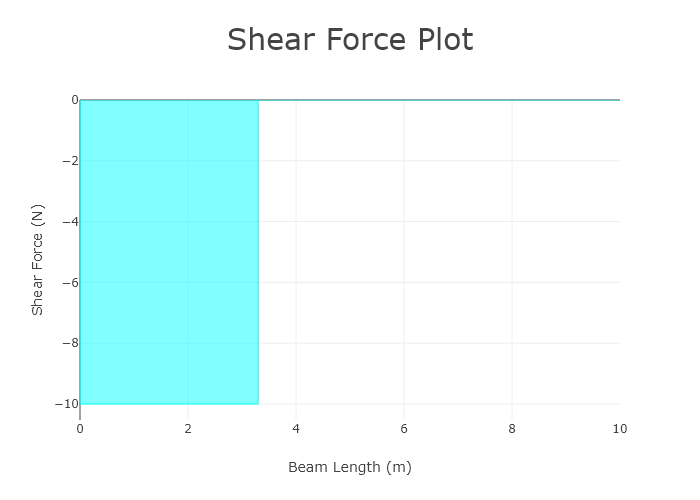
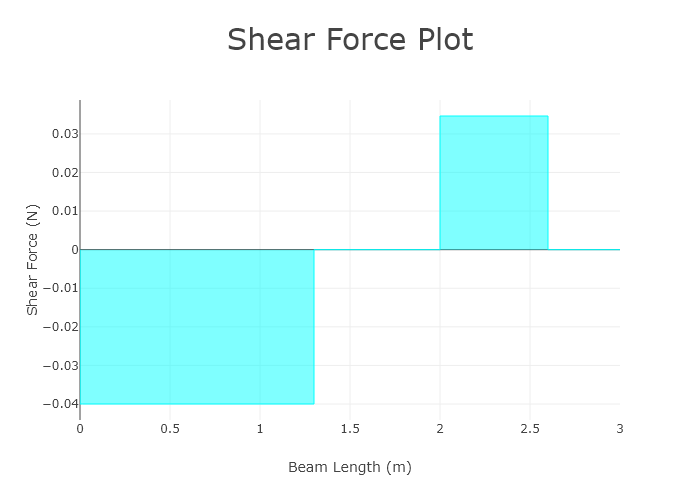
update angle

diff --git a/pages/0_Beam_Calculator.py b/pages/0_Beam_Calculator.py
@@ -60,21 +60,21 @@ with tab2:
             type_load = st.selectbox('Type forces', ('Point load', 'Distributed load', 'Moment')) 
             if type_load == 'Point load':
                 magnitude = st.number_input('Magnitude (kN)', step=0.01)
-                position = st.slider('Position (m)', min_value=0.00, max_value=length, step=0.01)
-                angle = st.number_input('Angle (degree)', min_value=0.00, max_value=360.00, step=0.01)
+                position = st.slider('Position (m)', min_value=0.00, max_value=length, step=0.1)
+                angle = st.number_input('Angle (degree)', max_value=360.00, value=90.00 ,step=0.01)
                 if st.button('Add'):
                     st.session_state.console_forces.append({'Type Load': type_load, 'Magnitude': magnitude, 'Position': position, 'Angle': angle})
             elif type_load == 'Moment':
                 magnitude = st.number_input('Magnitude (kN)', step=0.01)
-                position = st.slider('Position (m)', min_value=0.00, max_value=length, step=0.01)
+                position = st.slider('Position (m)', min_value=0.00, max_value=length, step=0.1)
                 if st.button('Add'):
                     st.session_state.console_forces.append({'Type Load': type_load, 'Magnitude': magnitude, 'Position': position})
             
             elif type_load == 'Distributed load':
                 # Vừa tạo hộp nhập số liệu, vừa tạo slider
                 magnitude = st.number_input('Magnitude (kN)', step=0.01)
-                start_point = st.slider('Start position (m)', min_value=0.00, max_value=length, step=0.01)
-                end_point = st.slider('End position (m)', min_value=0.00, max_value=length, step=0.01)
+                start_point = st.slider('Start position (m)', min_value=0.00, max_value=length, step=0.1)
+                end_point = st.slider('End position (m)', min_value=0.00, max_value=length, step=0.1)
                 if st.button('Add'):
                     st.session_state.console_forces.append({'Type Load': type_load, 'Magnitude': magnitude, 'Start Position': start_point, 'End Position': end_point})
 
@@ -106,6 +106,7 @@ with tab2:
                     # Trích xuất thông tin từ mỗi phần tử
                     type_load = force.get("Type Load")
                     magnitude = force.get("Magnitude")
+                    angle = force.get("Angle")
                     position = force.get("Position", None)
                     start_position = force.get("Start Position", None)
                     end_position = force.get("End Position", None)
@@ -115,8 +116,10 @@ with tab2:
                         beam.add_loads(DistributedLoadV(round(magnitude,2), (float(start_position), float(end_position))))
                     elif type_load == "Moment":
                         beam.add_loads(PointTorque(round(magnitude,2), position))
-                    elif type_load == "Point load":
+                    elif type_load == "Point load" and angle == 90:
                         beam.add_loads(PointLoadV(round(magnitude,2), position))
+                    elif type_load == "Point load" and angle != 90:
+                        beam.add_loads(PointLoad(round(magnitude,2), position, angle=angle))
 
                 beam.analyse()
                 #Vẽ biểu đồ dựa trên thông tin đã input
@@ -145,6 +148,7 @@ with tab2:
                 # Trích xuất thông tin từ mỗi phần tử
                 type_load = force.get("Type Load")
                 magnitude = force.get("Magnitude")
+                angle = force.get("Angle")
                 position = force.get("Position", None)
                 start_position = force.get("Start Position", None)
                 end_position = force.get("End Position", None)
@@ -154,8 +158,10 @@ with tab2:
                     beam.add_loads(DistributedLoadV(round(magnitude,2), (float(start_position), float(end_position))))
                 elif type_load == "Moment":
                     beam.add_loads(PointTorque(round(magnitude,2), position))
-                elif type_load == "Point load":
+                elif type_load == "Point load" and angle==90:
                     beam.add_loads(PointLoadV(round(magnitude,2), position))
+                elif type_load == "Point load" and angle != 90:
+                    beam.add_loads(PointLoad(round(magnitude,2), position, angle=angle))
                     
             beam.analyse()
             #Giải và plot đồ thị
@@ -201,21 +207,21 @@ with tab2:
             st.markdown('---')
             if type_load_1 == 'Point load':
                 magnitude_1 = st.number_input('Magnitude (kN)', step=0.01)
-                position_1 = st.slider('Position (m)', min_value=0.00, max_value=length_1, step=0.01)
-                angle_1 =st.number_input('Angle (degree)', min_value=0.00, max_value=360.00, step=0.01)
+                position_1 = st.slider('Position (m)', min_value=0.00, max_value=length_1, step=0.1)
+                angle_1 =st.number_input('Angle (degree)', max_value=360.00, value=90.00 , step=0.01)
                 if st.button('Add'):
                     st.session_state.beam_forces.append({'Type Load': type_load_1, 'Magnitude': magnitude_1, 'Position': position_1, 'Angle': angle_1})
             
             elif type_load_1 == 'Momnet':
                 magnitude_1 = st.number_input('Magnitude (kN)', step=0.01)
-                position_1 = st.slider('Position (m)', min_value=0.00, max_value=length_1, step=0.01)
+                position_1 = st.slider('Position (m)', min_value=0.00, max_value=length_1, step=0.1)
                 if st.button('Add'):
                     st.session_state.beam_forces.append({'Type Load': type_load_1, 'Magnitude': magnitude_1, 'Position': position_1})
             
             elif type_load_1 == 'Distributed load':
                 magnitude_1 = st.number_input('Magnitude (kN)', step=0.01)
-                start_point_1 = st.slider('Start position (m)', min_value=0.00, max_value=None, step=0.01)
-                end_point_1 = st.slider('End position (m)', min_value=0.00, max_value=length_1, step=0.01)
+                start_point_1 = st.slider('Start position (m)', min_value=0.00, max_value=None, step=0.1)
+                end_point_1 = st.slider('End position (m)', min_value=0.00, max_value=length_1, step=0.1)
                 if st.button('Add'):
                     st.session_state.beam_forces.append({'Type Load': type_load_1, 'Magnitude': magnitude_1, 'Start Position': start_point_1, 'End Position': end_point_1})
             
@@ -251,6 +257,7 @@ with tab2:
                     # Trích xuất thông tin từ mỗi phần tử
                     type_load = force.get("Type Load")
                     magnitude = force.get("Magnitude")
+                    angle = force.get("Angle")
                     position = force.get("Position", None)
                     start_position = force.get("Start Position", None)
                     end_position = force.get("End Position", None)
@@ -260,8 +267,10 @@ with tab2:
                         beam.add_loads(DistributedLoadV(round(magnitude,2), (float(start_position), float(end_position))))
                     elif type_load == "Moment":
                         beam.add_loads(PointTorque(round(magnitude,2), position))
-                    elif type_load == "Point load":
+                    elif type_load == "Point load" and angle==90:
                         beam.add_loads(PointLoadV(round(magnitude,2), position))
+                    elif type_load == "Point load" and angle != 90:
+                        beam.add_loads(PointLoad(round(magnitude,2), position, angle=angle))
 
                 #Vẽ biểu đồ dựa trên thông tin đã input
                 fig_beam = beam.plot_beam_diagram()
@@ -294,6 +303,7 @@ with tab2:
                 # Trích xuất thông tin từ mỗi phần tử
                 type_load = force.get("Type Load")
                 magnitude = force.get("Magnitude")
+                angle = force.get("Angle")
                 position = force.get("Position", None)
                 start_position = force.get("Start Position", None)
                 end_position = force.get("End Position", None)
@@ -303,8 +313,10 @@ with tab2:
                     beam.add_loads(DistributedLoadV(round(magnitude,2), (float(start_position), float(end_position))))
                 elif type_load == "Moment":
                     beam.add_loads(PointTorque(round(magnitude,2), position))
-                elif type_load == "Point load":
+                elif type_load == "Point load" and angle==90:
                     beam.add_loads(PointLoadV(round(magnitude,2), position))
+                elif type_load == "Point load" and angle != 90:
+                    beam.add_loads(PointLoad(round(magnitude,2), position, angle=angle))
                     
             beam.analyse()
             #Giải và plot đồ thị
@@ -340,12 +352,12 @@ with tab2:
             st.markdown('---')
             
             if type_support == 'Roller':
-                roller = st.slider('Roller position (m)', min_value=0.00, max_value=length_2, step=0.01)
+                roller = st.slider('Roller position (m)', min_value=0.00, max_value=length_2, step=0.1)
                 if st.button('Add type support'):
                     st.session_state.type_support.append({'Type support': type_support, 'Position': roller})
             
             elif type_support == 'Pin':
-                pin = st.slider('Pin position (m)', min_value=0.00, max_value=length_2, step=0.01)
+                pin = st.slider('Pin position (m)', min_value=0.00, max_value=length_2, step=0.1)
                 if st.button('Add type support'):
                     st.session_state.type_support.append({'Type support': type_support, 'Position': pin})
             
@@ -381,18 +393,18 @@ with tab2:
             if type_load_2 == 'Point load':
                 magnitude_2 = st.number_input('Magnitude (kN)', step=0.01)
                 position_2 = st.slider('Position (m)', min_value=0.00, max_value=length_2, step=0.01)
-                angle_2 = st.numbet_input('Angle (degree)',min_vlue=0.00, max_Value=360.00, step=0.01)
+                angle_2 = st.numbet_input('Angle (degree)',min_vlue=0.00, max_value=360.00, value=90.00 , step=0.1)
                 if st.button('Add'):
                     st.session_state.advanced_forces.append({'Type Load': type_load_2, 'Magnitude': magnitude_2, 'Position': position_2, 'Angle': angle_2})
             elif type_load_2 == 'Moment':
                 magnitude_2 = st.number_input('Magnitude (kN)', step=0.01)
-                position_2 = st.slider('Position (m)', min_value=0.00, max_value=length_2, step=0.01)
+                position_2 = st.slider('Position (m)', min_value=0.00, max_value=length_2, step=0.1)
                 if st.button('Add'):
                     st.session_state.advanced_forces.append({'Type Load': type_load_2, 'Magnitude': magnitude_2, 'Position': position_2})
             elif type_load_2 == 'Distributed load':
                 magnitude_2 = st.number_input('Magnitude (kN)', step=0.01)
-                start_point_2 = st.slider('Start position (m)', min_value=0.00, max_value=length_2, step=0.01)
-                end_point_2 = st.slider('End position (m)', min_value=0.00, max_value=length_2, step=0.01)
+                start_point_2 = st.slider('Start position (m)', min_value=0.00, max_value=length_2, step=0.1)
+                end_point_2 = st.slider('End position (m)', min_value=0.00, max_value=length_2, step=0.1)
                 if st.button('Add'):
                     st.session_state.advanced_forces.append({'Type Load': type_load_2, 'Magnitude': magnitude_2, 'Start Position': start_point_2, 'End Position': end_point_2})
             
@@ -437,6 +449,7 @@ with tab2:
                     # Trích xuất thông tin từ mỗi phần tử
                     type_load = force.get("Type Load")
                     magnitude = force.get("Magnitude")
+                    angle = force.get("Angle")
                     position = force.get("Position", None)
                     start_position = force.get("Start Position", None)
                     end_position = force.get("End Position", None)
@@ -446,8 +459,10 @@ with tab2:
                         beam.add_loads(DistributedLoadV(round(magnitude,2), (float(start_position), float(end_position))))
                     elif type_load == "Moment":
                         beam.add_loads(PointTorque(round(magnitude,2), position))
-                    elif type_load == "Point load":
+                    elif type_load == "Point load" and angle==90:
                         beam.add_loads(PointLoadV(round(magnitude,2), position))
+                    elif type_load == "Point load" and angle != 90:
+                        beam.add_loads(PointLoad(round(magnitude,2), position, angle=angle))
 
                 #Vẽ biểu đồ dựa trên thông tin đã input
                 fig_beam = beam.plot_beam_diagram()
@@ -488,6 +503,7 @@ with tab2:
                 # Trích xuất thông tin từ mỗi phần tử
                 type_load = force.get("Type Load")
                 magnitude = force.get("Magnitude")
+                angle = force.get("Angle")
                 position = force.get("Position", None)
                 start_position = force.get("Start Position", None)
                 end_position = force.get("End Position", None)
@@ -497,8 +513,10 @@ with tab2:
                     beam.add_loads(DistributedLoadV(round(magnitude,2), (float(start_position), float(end_position))))
                 elif type_load == "Moment":
                     beam.add_loads(PointTorque(round(magnitude,2), position))
-                elif type_load == "Point load":
+                elif type_load == "Point load" and angle == 90:
                     beam.add_loads(PointLoadV(round(magnitude,2), position))
+                elif type_load == "Point load" and angle != 90:
+                    beam.add_loads(PointLoad(round(magnitude,2), position, angle=angle))
 
             #Vẽ biểu đồ dựa trên thông tin đã input
             beam.analyse()

diff --git a/beam.py b/beam.py
@@ -34,13 +34,14 @@ def add_load(x1, magnitude, type, x2 = None):
         return beam.add_loads(PointTorque(magnitude, x1))
     
 def plot_diagram(x=0):
-    beam.analyse()
+    
     
     if x == 0:
         #PLot beam schematic
         fig_beam = beam.plot_beam_diagram()
         fig_beam.write_image("./images/fig_beam.png",format='png',engine='kaleido')
     else:
+        beam.analyse()
         #PLot beam schematic
         fig_reac = beam.plot_reaction_force()
         fig_reac.write_image("./images/fig_reac.png",format='png',engine='kaleido')
@@ -61,12 +62,22 @@ def plot_diagram(x=0):
         fig_deflection = beam.plot_deflection()
         fig_deflection.write_image("./images/fig_deflection.png",format='png',engine='kaleido')
 
-# beam = create_beam(10)
-# add_sp(0, "fixed")
+beam = create_beam(10)
+add_sp(0, "fixed")
 # add_sp(0, "pin")
-# add_sp(10, "roller")
-# add_load(2, -10, "pload")
-# add_load(0, -10, "dlv", 10)
-# add_load(5, 20, "ptorque")
-# plot_diagram(0)
+add_sp(10, "roller")
+add_load(2, -10, "pload")
+add_load(0, -10, "dlv", 10)
+add_load(5, 20, "ptorque")
+beam.add_loads(PointLoad(force=10, coord=1, angle = 0))
+beam.add_loads(PointLoad(force=10, coord=2, angle = 60))
+beam.add_loads(PointLoad(force=10, coord=3, angle = 90))
+beam.add_loads(PointLoad(force=10, coord=4, angle = 120))
+
+beam.add_loads(PointLoad(force=-10, coord=6, angle = 0))
+beam.add_loads(PointLoad(force=-10, coord=7, angle = 60))
+beam.add_loads(PointLoad(force=-10, coord=8, angle = 90))
+beam.add_loads(PointLoad(force=-10, coord=9, angle = 120))
+
+plot_diagram(0)
 # plot_diagram(1)
